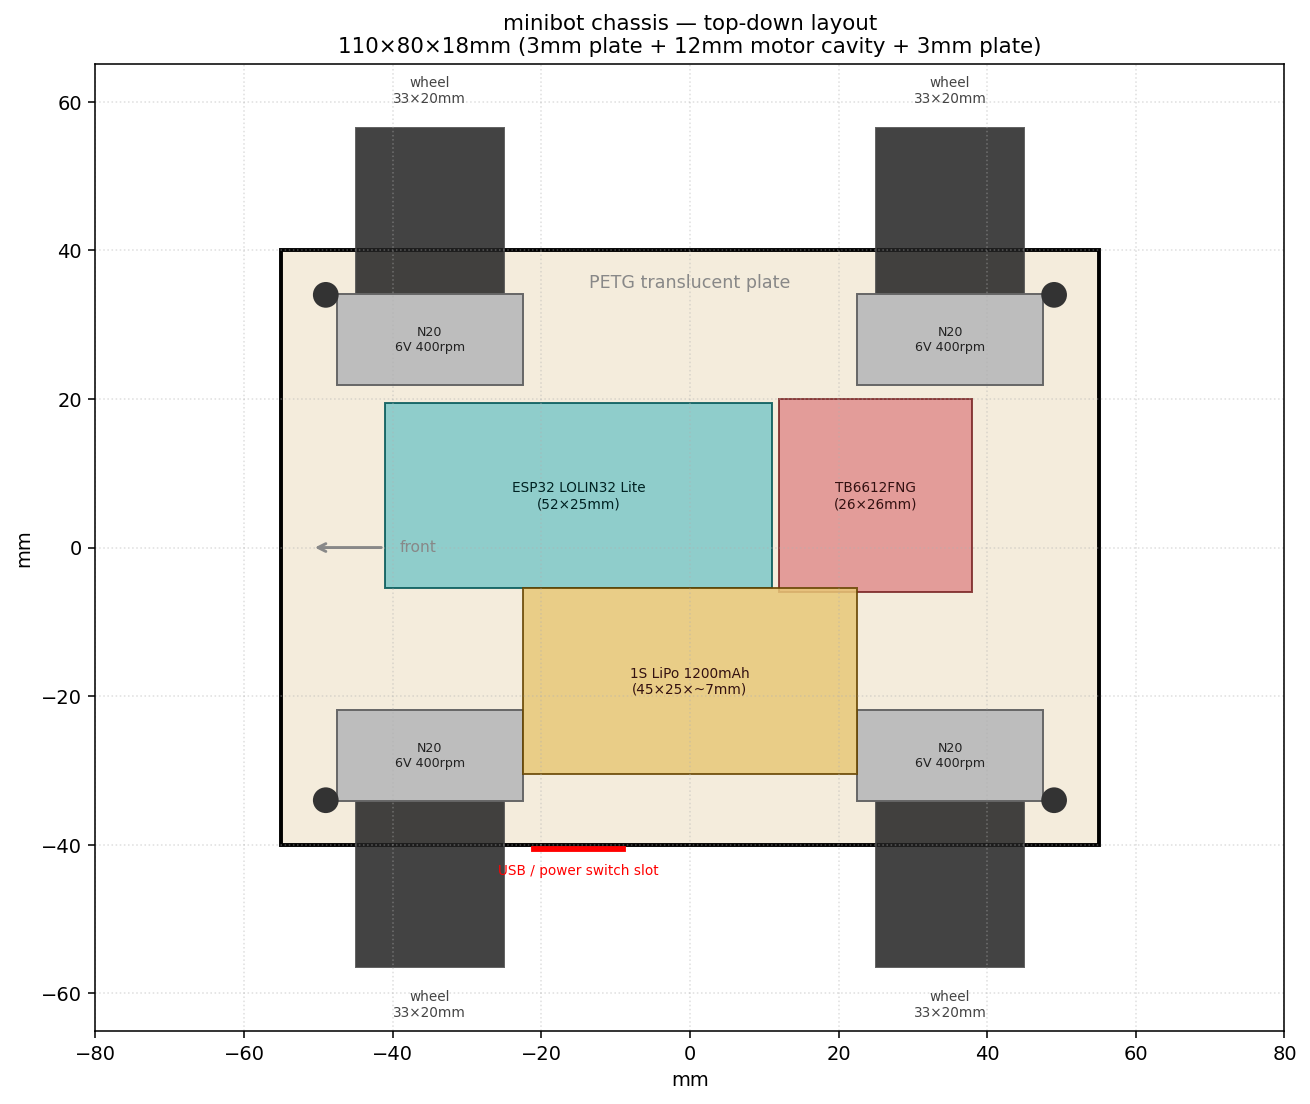
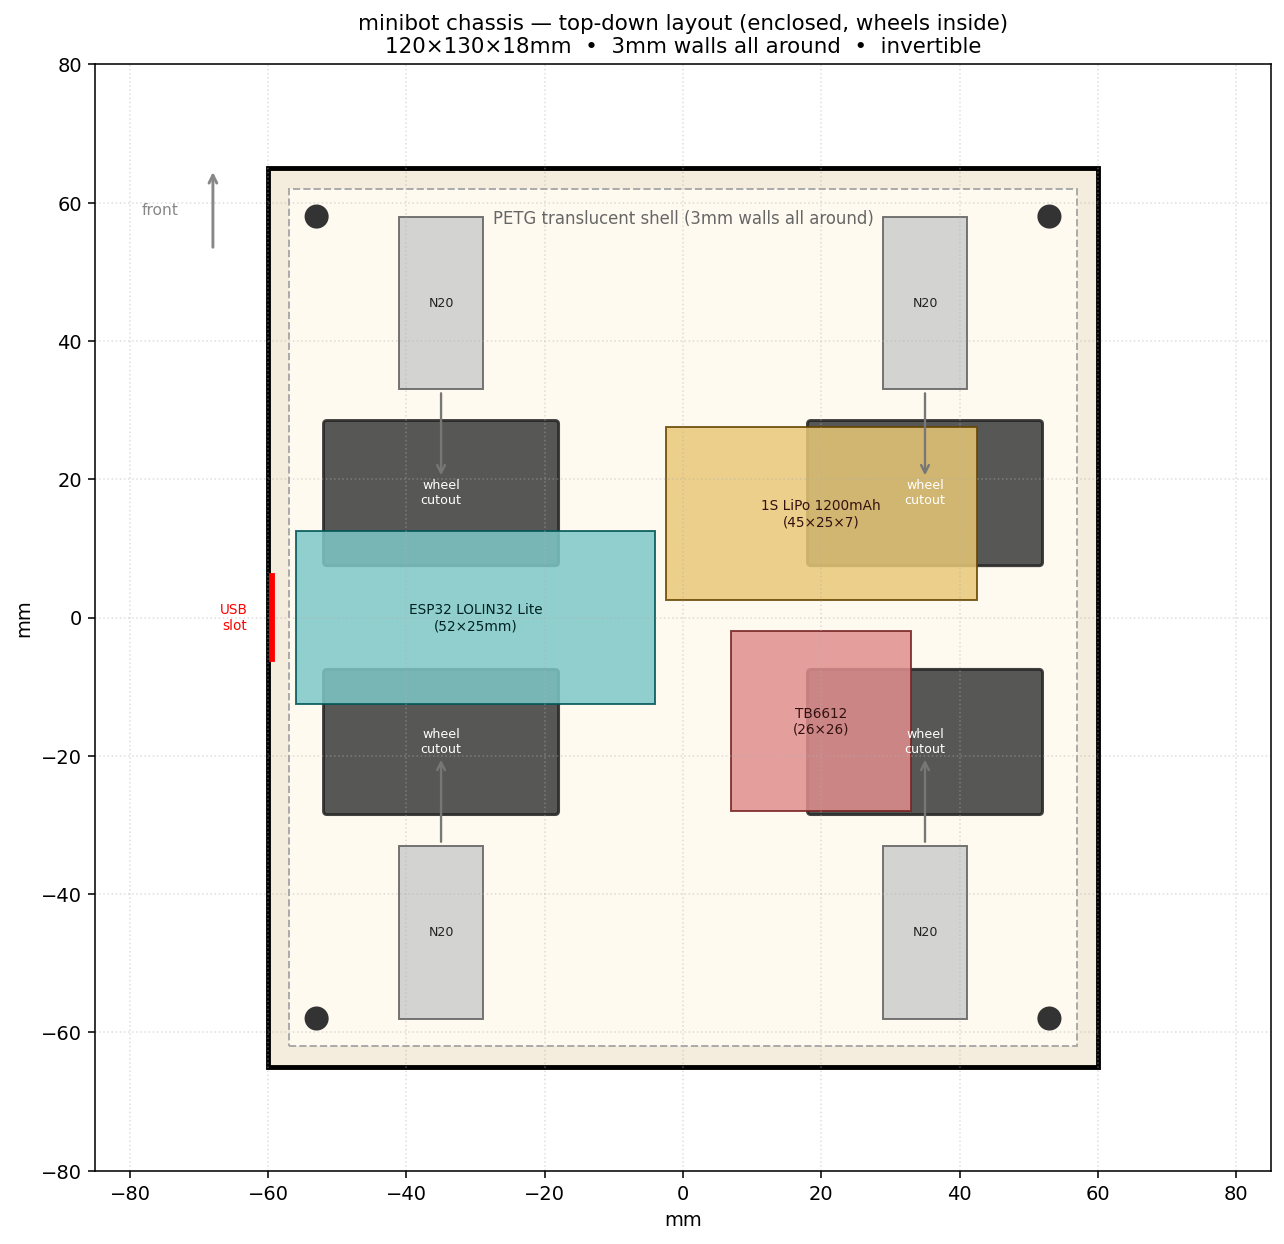
feat(cad): enclosed chassis with side walls and wheels inside the perimeter

diff --git a/docs/cad/layout.py b/docs/cad/layout.py
@@ -3,11 +3,11 @@
 # requires-python = ">=3.10"
 # dependencies = ["matplotlib>=3.9"]
 # ///
-"""Render a top-down preview of the chassis layout.
+"""Top-down chassis layout — matches chassis.scad geometry.
 
-Reads the same parameters as chassis.scad and emits a PNG showing the
-plate outline, motor positions, board pockets, battery pocket and
-wheel wells.
+Shows the enclosed-box design where wheels sit entirely inside the
+chassis perimeter and poke out only through cutouts in the top and
+bottom plates.
 """
 
 from pathlib import Path
@@ -18,68 +18,86 @@ import matplotlib.pyplot as plt
 OUT = Path(__file__).resolve().parent
 
 # ─── parameters (kept in sync with chassis.scad) ────────────────────
-plate_length = 110
-plate_width = 80
+plate_length = 120
+plate_width = 130
+wall_thick = 3
 
 motor_diameter = 12.2
 motor_length = 25
 motor_axle_pitch = 70
-motor_track = 56
+motor_center_y = (plate_width / 2) - wall_thick - 4 - motor_length / 2
 
 wheel_diameter = 33
 wheel_width = 20
+wheel_inset_from_motor = 15
+wheel_center_y = motor_center_y - motor_length / 2 - wheel_inset_from_motor
 
 esp_length = 52
 esp_width = 25
-
 driver_length = 26
 driver_width = 26
-
 battery_length = 45
 battery_width = 25
 
 motor_positions = [
-    (-motor_axle_pitch / 2,  motor_track / 2),
-    (-motor_axle_pitch / 2, -motor_track / 2),
-    ( motor_axle_pitch / 2,  motor_track / 2),
-    ( motor_axle_pitch / 2, -motor_track / 2),
+    (-motor_axle_pitch / 2,  motor_center_y),
+    (-motor_axle_pitch / 2, -motor_center_y),
+    ( motor_axle_pitch / 2,  motor_center_y),
+    ( motor_axle_pitch / 2, -motor_center_y),
+]
+
+wheel_positions = [
+    (-motor_axle_pitch / 2,  wheel_center_y),
+    (-motor_axle_pitch / 2, -wheel_center_y),
+    ( motor_axle_pitch / 2,  wheel_center_y),
+    ( motor_axle_pitch / 2, -wheel_center_y),
 ]
 
 
 def render() -> None:
-    fig, ax = plt.subplots(figsize=(11, 8), dpi=140)
+    fig, ax = plt.subplots(figsize=(11, 9), dpi=140)
 
-    # Plate outline
+    # Outer chassis outline
     ax.add_patch(patches.Rectangle(
         (-plate_length / 2, -plate_width / 2),
         plate_length, plate_width,
-        linewidth=2, edgecolor="black", facecolor="#f4ecdc",
+        linewidth=2.5, edgecolor="black", facecolor="#f4ecdc",
     ))
-    ax.text(0, plate_width / 2 - 5, "PETG translucent plate", ha="center", fontsize=9, color="#888")
+    # Inner void (the cavity)
+    ax.add_patch(patches.Rectangle(
+        (-plate_length / 2 + wall_thick, -plate_width / 2 + wall_thick),
+        plate_length - 2 * wall_thick, plate_width - 2 * wall_thick,
+        linewidth=1, edgecolor="#aaa", facecolor="#fffaf0", linestyle="--",
+    ))
+    ax.text(0, plate_width / 2 - 8, "PETG translucent shell (3mm walls all around)",
+            ha="center", fontsize=8.5, color="#666")
 
-    # Wheels (drawn as protruding past the plate edges)
-    for x, y in motor_positions:
-        side_y = (plate_width / 2) if y > 0 else -plate_width / 2
-        wheel_y = side_y + (wheel_diameter / 2 - 7.5) * (1 if y > 0 else -1)
-        ax.add_patch(patches.Rectangle(
-            (x - wheel_width / 2, side_y - wheel_diameter / 2 if y > 0 else side_y - wheel_diameter / 2),
-            wheel_width, wheel_diameter,
-            linewidth=1, edgecolor="#444", facecolor="#222", alpha=0.85,
+    # Wheel cutouts in the plate (visible from above)
+    for x, y in wheel_positions:
+        ax.add_patch(patches.FancyBboxPatch(
+            (x - 33 / 2, y - wheel_width / 2),
+            33, wheel_width,
+            boxstyle="round,pad=0.5",
+            linewidth=1.5, edgecolor="#222", facecolor="#3a3a3a", alpha=0.85,
         ))
-        ax.text(x, side_y + (wheel_diameter / 2 + 5) * (1 if y > 0 else -1),
-                "wheel\n33×20mm", ha="center", va="center", fontsize=7, color="#444")
+        ax.text(x, y, "wheel\ncutout", ha="center", va="center",
+                fontsize=6.5, color="white")
 
-    # Motors (visible cylinders inside the chassis)
+    # Motors (under the cutouts visually, but at different Y)
     for x, y in motor_positions:
         ax.add_patch(patches.Rectangle(
-            (x - motor_length / 2, y - motor_diameter / 2),
-            motor_length, motor_diameter,
-            linewidth=1, edgecolor="#666", facecolor="#bdbdbd",
+            (x - motor_diameter / 2, y - motor_length / 2),
+            motor_diameter, motor_length,
+            linewidth=1, edgecolor="#666", facecolor="#cfcfcf", alpha=0.9,
         ))
-        ax.text(x, y, "N20\n6V 400rpm", ha="center", va="center", fontsize=6.5, color="#222")
+        ax.text(x, y, "N20", ha="center", va="center", fontsize=6.5, color="#222")
+        # shaft arrow toward chassis centre
+        ax.annotate("", xy=(x, y - motor_length / 2 - 13 if y > 0 else y + motor_length / 2 + 13),
+                    xytext=(x, y - motor_length / 2 if y > 0 else y + motor_length / 2),
+                    arrowprops=dict(arrowstyle="->", color="#777", lw=1.2))
 
-    # ESP32 board (lays across the middle horizontally)
-    esp_cx, esp_cy = -15, 7
+    # Electronics: ESP32 centered-left
+    esp_cx, esp_cy = -30, 0
     ax.add_patch(patches.Rectangle(
         (esp_cx - esp_length / 2, esp_cy - esp_width / 2),
         esp_length, esp_width,
@@ -87,47 +105,51 @@ def render() -> None:
     ))
     ax.text(esp_cx, esp_cy, "ESP32 LOLIN32 Lite\n(52×25mm)", ha="center", va="center", fontsize=7, color="#022")
 
-    # TB6612 board (next to ESP32)
-    drv_cx, drv_cy = 25, 7
+    # TB6612 right-lower
+    drv_cx, drv_cy = 20, -15
     ax.add_patch(patches.Rectangle(
         (drv_cx - driver_length / 2, drv_cy - driver_width / 2),
         driver_length, driver_width,
         linewidth=1, edgecolor="#722", facecolor="#e08e8e", alpha=0.85,
     ))
-    ax.text(drv_cx, drv_cy, "TB6612FNG\n(26×26mm)", ha="center", va="center", fontsize=7, color="#311")
+    ax.text(drv_cx, drv_cy, "TB6612\n(26×26)", ha="center", va="center", fontsize=7, color="#311")
 
-    # Battery (below ESP32+TB6612)
-    bat_cx, bat_cy = 0, -18
+    # Battery right-upper
+    bat_cx, bat_cy = 20, 15
     ax.add_patch(patches.Rectangle(
         (bat_cx - battery_length / 2, bat_cy - battery_width / 2),
         battery_length, battery_width,
         linewidth=1, edgecolor="#640", facecolor="#e8c878", alpha=0.85,
     ))
-    ax.text(bat_cx, bat_cy, "1S LiPo 1200mAh\n(45×25×~7mm)", ha="center", va="center", fontsize=7, color="#311")
+    ax.text(bat_cx, bat_cy, "1S LiPo 1200mAh\n(45×25×7)", ha="center", va="center", fontsize=7, color="#311")
 
-    # USB access slot indicator (on the bottom edge)
-    ax.plot([esp_cx - 6, esp_cx + 6], [-plate_width / 2 - 0.5, -plate_width / 2 - 0.5], color="red", lw=3)
-    ax.text(esp_cx, -plate_width / 2 - 4, "USB / power switch slot", ha="center", fontsize=7, color="red")
+    # USB slot indicator on the front wall
+    ax.plot([-plate_length / 2 + 0.5, -plate_length / 2 + 0.5], [-6, 6], color="red", lw=3)
+    ax.text(-plate_length / 2 - 3, 0, "USB\nslot", ha="right", va="center", fontsize=7, color="red")
 
-    # Mounting holes at corners
+    # Corner mount holes
     for sx in (-1, 1):
         for sy in (-1, 1):
             ax.add_patch(patches.Circle(
-                (sx * (plate_length / 2 - 6), sy * (plate_width / 2 - 6)),
+                (sx * (plate_length / 2 - 7), sy * (plate_width / 2 - 7)),
                 1.6, color="#333", zorder=10,
             ))
 
-    # Direction indicator
-    ax.annotate("", xy=(-plate_length / 2 + 4, 0), xytext=(-plate_length / 2 + 14, 0),
+    # Direction arrow
+    ax.annotate("", xy=(-plate_length / 2 - 8, plate_width / 2),
+                xytext=(-plate_length / 2 - 8, plate_width / 2 - 12),
                 arrowprops=dict(arrowstyle="->", color="#888", lw=1.5))
-    ax.text(-plate_length / 2 + 16, 0, "front", fontsize=8, color="#888", va="center")
+    ax.text(-plate_length / 2 - 13, plate_width / 2 - 6, "front", fontsize=8, color="#888",
+            va="center", ha="right")
 
     ax.set_xlim(-plate_length / 2 - 25, plate_length / 2 + 25)
-    ax.set_ylim(-plate_width / 2 - 25, plate_width / 2 + 25)
+    ax.set_ylim(-plate_width / 2 - 15, plate_width / 2 + 15)
     ax.set_aspect("equal")
-    ax.set_title(f"minibot chassis — top-down layout\n"
-                 f"{plate_length}×{plate_width}×18mm (3mm plate + 12mm motor cavity + 3mm plate)",
-                 fontsize=11)
+    ax.set_title(
+        f"minibot chassis — top-down layout (enclosed, wheels inside)\n"
+        f"{plate_length}×{plate_width}×18mm  •  3mm walls all around  •  invertible",
+        fontsize=11,
+    )
     ax.set_xlabel("mm")
     ax.set_ylabel("mm")
     ax.grid(True, linestyle=":", alpha=0.4)